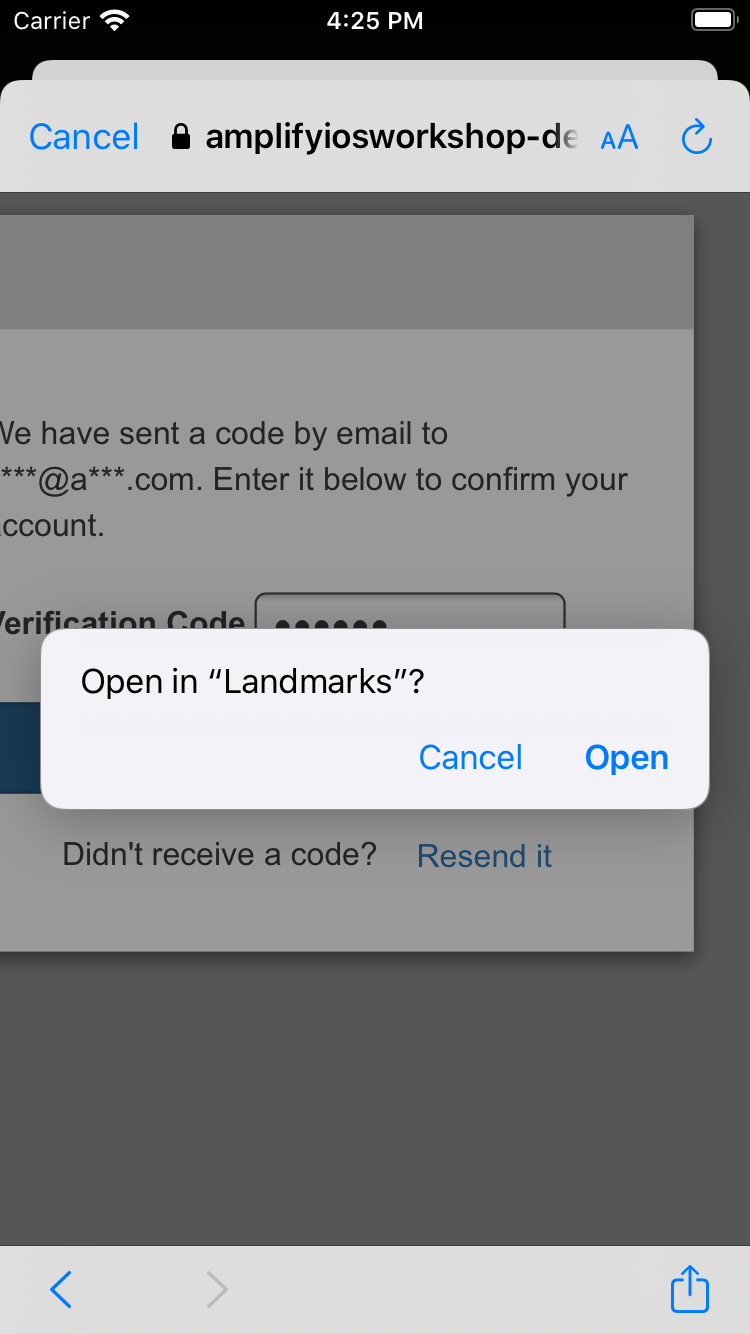
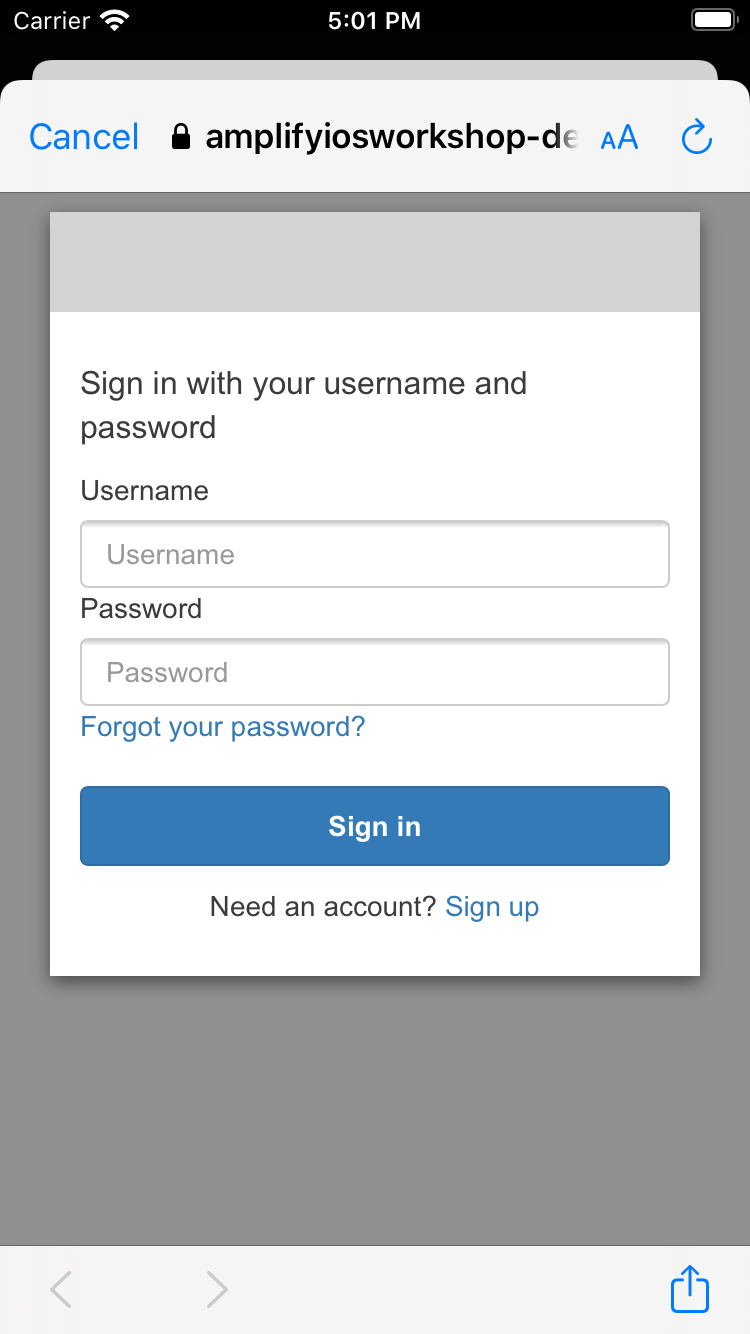
fix typo

diff --git a/MOB304/instructions/content/30_add_authentication/30_test.md b/MOB304/instructions/content/30_add_authentication/30_test.md
@@ -12,47 +12,35 @@ You just add a bit of logic in `AppDelegate` class to sign in and to sign out us
 
 Let's now verify everythign works as expected.  Start the application using XCode's menu and click **Product**, then **Run** (or press **&#8984;R**).
 
-The application starts and shows the `LandingView`.  Click on the user icon in the middle of the screen to trigger the Amplify Login. Click on **Create new account** to signup a new user.
+The application starts and shows the `LandingView`.  Click on the user icon in the middle of the screen to trigger the user authentication, using Cognito's web user interface. Click on **Sign up** at the bottom of the screen to signup a new user.
 
-Landing View | Authorization View | Signup View
+Landing View | Login View (Cognito) | Signup View (Cognito)
 :---: | :---: | :---: |
-![Landing View](/images/30-20-test-1.png) | ![App Login Screen](/images/30-20-test-2.png) | ![App Login Screen](/images/30-20-test-3.png) |
+![Landing View](/images/30-20-test-1.png) | ![App Login Screen](/images/30-20-test-5.png) | ![App Signup Screen](/images/30-20-test-3.png) |
 
 After clicking **Sign Up**, check your email.  Cognito sends you a confirmation code.
 
-Code View | Confirmation View | Landmarks List View
-:---: | :---: | :---: |
-![Confirmation Code](/images/30-20-test-4.png) | ![Registration](/images/30-20-test-5.png) | ![Landmark list](/images/30-20-test-6.png) |
+Code View (Cognito) | Landmarks List View
+:---: | :---: |
+![Confirmation Code](/images/30-20-test-4.png) | ![Landmark list](/images/30-20-test-6.png) |
 
 Click **Sign Out** to end the session and, after a short redirection to Cognito's signout page, you return to the `LandingView`.
 
 In the XCode console, you see some application debugging information: the username and profile of the signed in user as well as its Cognito token.  
 
 ```text 
-user just signed in.
-username : Optional("sebsto")
-Sign in flow completed: signedIn
-error : nil
-attributes: Optional(["sub": "4105547d-0000-0000-0000-b057472cd2c5", "phone_number_verified": "false", "phone_number": "+33711", "email": "-secret-@amazon.com", "email_verified": "true"])
-
-error : nil
-token : Optional(AWSMobileClient.Tokens(idToken: Optional(AWSMobileClient.SessionToken(tokenString: Optional("eyJraWQiOiJ...WQi"))), expiration: Optional(2019-10-24 15:47:05 +0000)))
-
-(edited for brevity)
+2020-06-08 17:11:26.908420+0200 Landmarks[86260:7126165] [Amplify] Configuring
+Amplify initialized
+hostedUI()
+2020-06-08 17:11:39.156307+0200 Landmarks[86260:7126165] [Amplify] AWSMobileClient Event listener - signedIn
+Sign in succeeded
+==HUB== User signed In, update UI
+User attribtues - [Amplify.AuthUserAttribute(key: Amplify.AuthUserAttributeKey.unknown("email_verified"), value: "true"), Amplify.AuthUserAttribute(key: Amplify.AuthUserAttributeKey.email, value: "stormacq@amazon.com"), Amplify.AuthUserAttribute(key: Amplify.AuthUserAttributeKey.unknown("sub"), value: "ba12b222-b50c-498e-a911-08f11e53f624")]
+2020-06-08 17:11:46.832938+0200 Landmarks[86260:7126165] [Amplify] AWSMobileClient Event listener - signedOut
+Successfully signed out
+==HUB== User signed Out, update UI
 ```
 
 {{% notice warning %}}
-This application displays user personal information, such as the email address and the Cognito token in the console.  In real life DO NOT print these information in the console.  We did this for education purpose only.
+This application displays user personal information, such as the email address and the Cognito ID in the console.  In real life DO NOT print these information in the console.  We did this for education purpose only.
 {{% /notice %}}
-
-You can ignore the following warning in XCode console, [as they appear only in the Simulator](https://openradar.appspot.com/45237042):
-
-```text 
-2019-10-24 16:47:05.056651+0200 Landmarks[92803:3338639] [Client] Updating selectors failed with: Error Domain=NSCocoaErrorDomain Code=4099 "The connection to service on pid 0 named com.apple.commcenter.coretelephony.xpc was invalidated." UserInfo={NSDebugDescription=The connection to service on pid 0 named com.apple.commcenter.coretelephony.xpc was invalidated.}
-```
-
-To permanently disable these warnings, open a Terminal and type:
-
-```bash
-xcrun simctl spawn booted log config --mode "level:off"  --subsystem com.apple.CoreTelephony
-```

diff --git a/MOB304/instructions/content/30_add_authentication/20_client_code.md b/MOB304/instructions/content/30_add_authentication/20_client_code.md
@@ -22,7 +22,7 @@ graph LR;
 
 We choose to write all AWS specific code in the `AppDelegate` class, to avoid spreading dependencies all over the project. This is a design decision for this project, you may adopt other design for your projects.
 
-## Add the Amplify library to the iOS project
+## Add the Amplify library to XCode project
 
 We are using [CocoaPods](https://cocoapods.org/), a MacOS package manager, to add the Amplify library to your project.
 The instructions below assume CocoaPod is already installed.  If not, refer to the instructions provided in the [pre-requisites section](/10_prerequisites/20_installs.html#installing-or-updating).
@@ -56,7 +56,7 @@ end
 
 Without changing directory, let `pod` download and install the dependencies:
 
-```bash 
+```bash
 pod install --repo-update
 ```
 
@@ -65,7 +65,7 @@ After one or two minutes, you shoud see the below (it is safe to ignore the thre
 
 If your XCode project is open, **close XCode** and re-open the project *workspace* that `pod` just created.
 
-```bash 
+```bash
 open HandlingUserInput.xcworkspace/
 ```
 
@@ -291,10 +291,10 @@ Before proceeding to the next steps, **build** (&#8984;B) the project to ensure 
 
 In this section, we're going to add a new application entry point: the LandingView.  This view will check if the user is authenticated and will display either the authentication view or the main application view.
 
-Let's create two new Swift classes in `$PROJECT_DIRECTORY/Landmarks` (same directory as `AppDelegate.swift` or `LandmarkList,swift`)
+Let's create two new Swift classes in `$PROJECT_DIRECTORY/Landmarks` (same directory as `AppDelegate.swift` or `LandmarkList.swift`)
 
 - **UserBadge.swift** is the view to use when user is not authenticated
-- **LandingView.swift** is the application entry point.  It displays either LoginViewControler or LandmarkList based on user's authentication status.
+- **LandingView.swift** is the application entry point.  It displays either `UserBadge` or `LandmarkList` based on user's authentication status.
 
 To add a new Swift class to your project, use XCode menu and click **File**, then **New** or press **&#8984;N** and then enter the file name.
 
